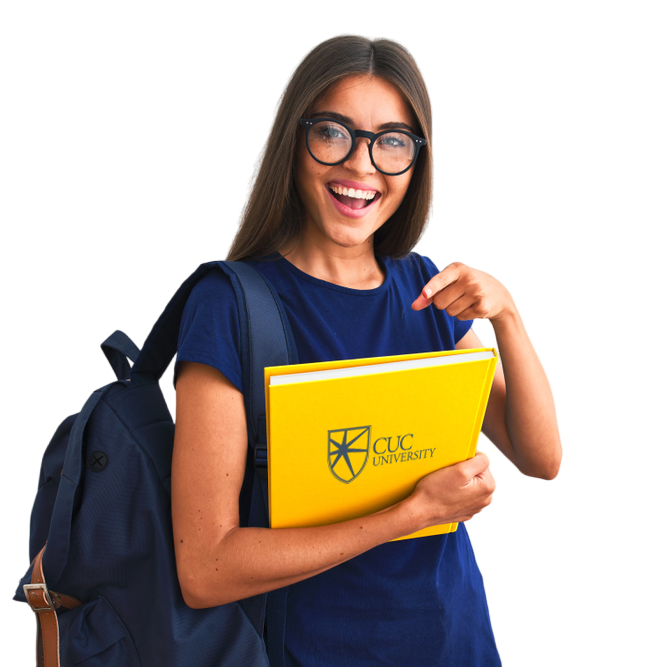
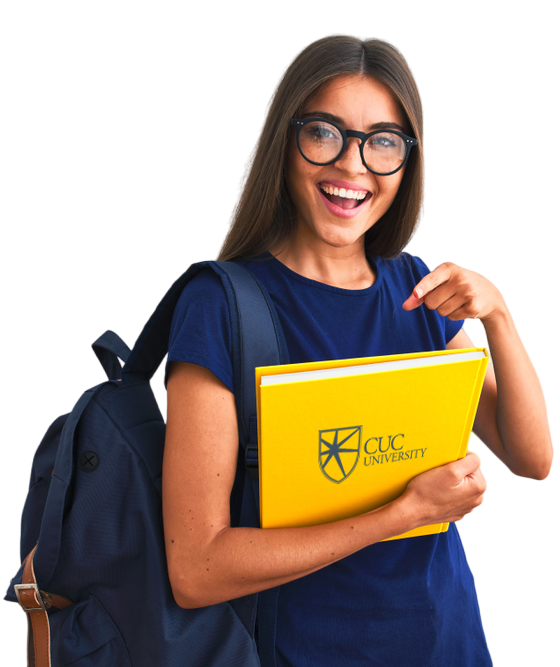
se le agrega tamaño maximo a studesnt

diff --git a/src/components/about-us/Alumna.tsx b/src/components/about-us/Alumna.tsx
@@ -43,7 +43,8 @@ export const Alumna = ({
                 borderRadius: 100,
                 backgroundColor: 'yellow',
                 minHeight: '70%',
-                minWidth:'100%',
+                width: '100%',
+                maxWidth:'700px',
                 backgroundImage: `url(${origin}${backgroundImage})`,
                 backgroundRepeat: 'no-repeat',
                 backgroundSize: 'cover',
